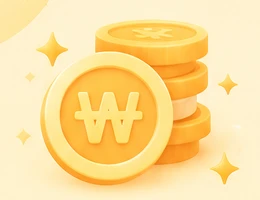
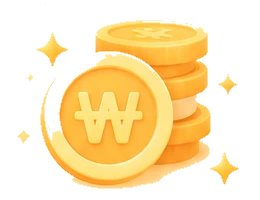
맞춤 진단 카드 진한 금색 배경, 동전 그림 배경 투명 처리

diff --git a/src/App.jsx b/src/App.jsx
@@ -3303,7 +3303,7 @@ export default function App() {
       <button
         onClick={() => setScreen({ view: diagnosis ? "diagnosisResult" : "diagnosis" })}
         className="relative overflow-hidden w-full text-left rounded-[24px] py-3.5 pl-2 pr-3.5 mb-5 flex items-center justify-between active:scale-[0.99] transition-transform"
-        style={{ background: "linear-gradient(120deg, #FFEDB5 0%, #FFF3D1 55%, #FFE69C 100%)" }}
+        style={{ background: "linear-gradient(120deg, #FFD54A 0%, #FFC21F 50%, #F2A30F 100%)", boxShadow: "0 8px 20px rgba(232,160,15,0.30)" }}
       >
         <div className="absolute inset-0 overflow-hidden pointer-events-none">
           <div
@@ -3313,7 +3313,7 @@ export default function App() {
               left: "-20%",
               width: "16%",
               height: "100%",
-              background: "linear-gradient(75deg, transparent 0%, rgba(255,255,255,0.6) 50%, transparent 100%)",
+              background: "linear-gradient(75deg, transparent 0%, rgba(255,255,255,0.85) 50%, transparent 100%)",
               animation: "shimmerSweep 2.6s linear infinite",
             }}
           >
@@ -3338,16 +3338,13 @@ export default function App() {
             alt=""
             draggable={false}
             className="w-[84px] shrink-0"
-            style={{
-              WebkitMaskImage: "radial-gradient(ellipse 60% 60% at 50% 50%, #000 65%, transparent 100%)",
-              maskImage: "radial-gradient(ellipse 60% 60% at 50% 50%, #000 65%, transparent 100%)",
-            }}
+            style={{ filter: "drop-shadow(0 4px 8px rgba(150,90,0,0.35))" }}
           />
           <div className="min-w-0">
-            <p className="text-[16px] font-extrabold" style={{ color: "#0B1A36" }}>
+            <p className="text-[16px] font-extrabold" style={{ color: "#3E2A05" }}>
               {diagnosis ? "내 맞춤 지원금 결과 보기" : "30초 맞춤 진단 받기"}
             </p>
-            <p className="text-[12px] mt-1 leading-snug break-keep" style={{ color: "#6E6F73" }}>
+            <p className="text-[12px] mt-1 leading-snug break-keep" style={{ color: "#5C430F" }}>
               {diagnosis ? (
                 `${diagnosis.region} 사업장 기준으로 골라둔 지원금이 있어요`
               ) : (
@@ -3360,8 +3357,8 @@ export default function App() {
             </p>
           </div>
         </div>
-        <span className="relative z-10 w-9 h-9 rounded-full flex items-center justify-center shrink-0 ml-2" style={{ background: "rgba(255,255,255,0.75)" }}>
-          <ChevronRight size={18} color="#E39A12" strokeWidth={2.6} />
+        <span className="relative z-10 w-9 h-9 rounded-full flex items-center justify-center shrink-0 ml-2" style={{ background: "rgba(255,255,255,0.85)" }}>
+          <ChevronRight size={18} color="#C47F00" strokeWidth={2.6} />
         </span>
       </button>
 
